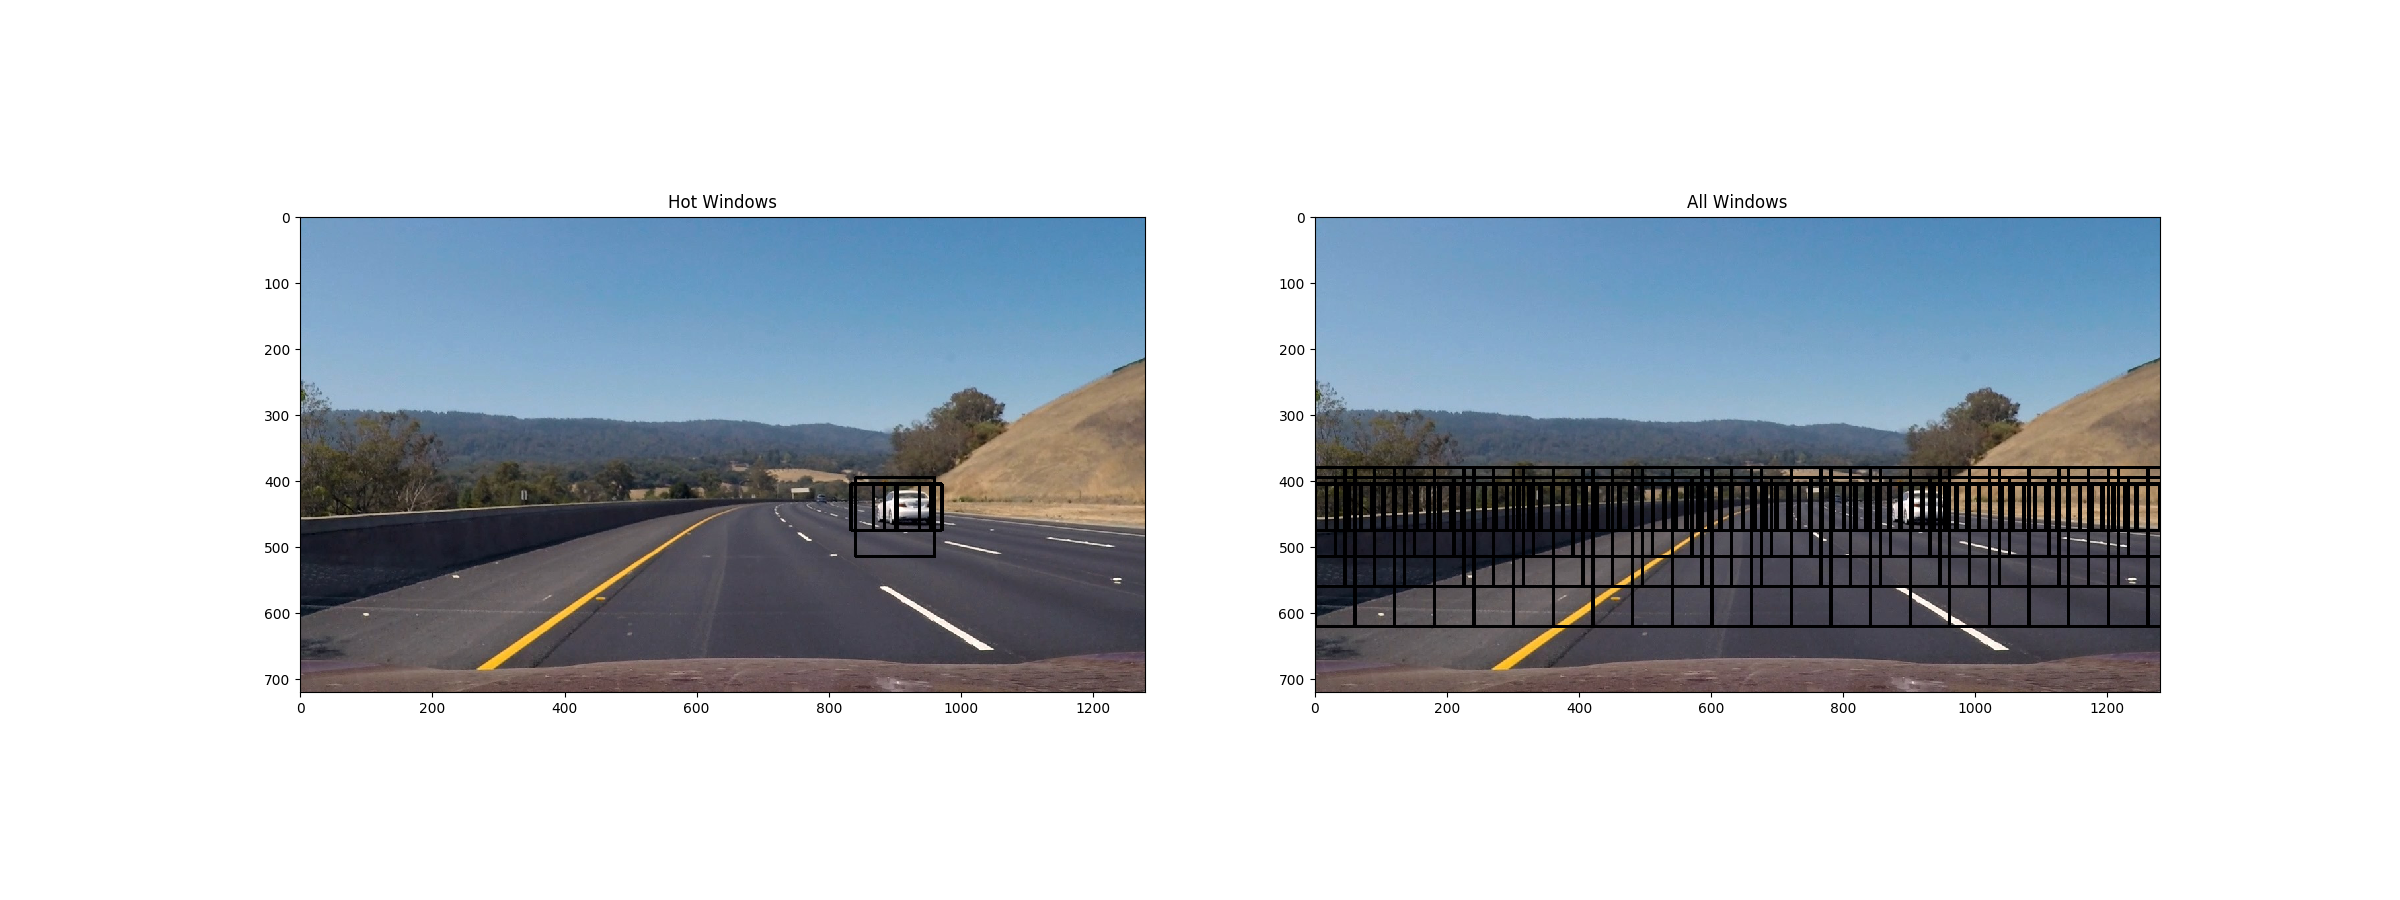
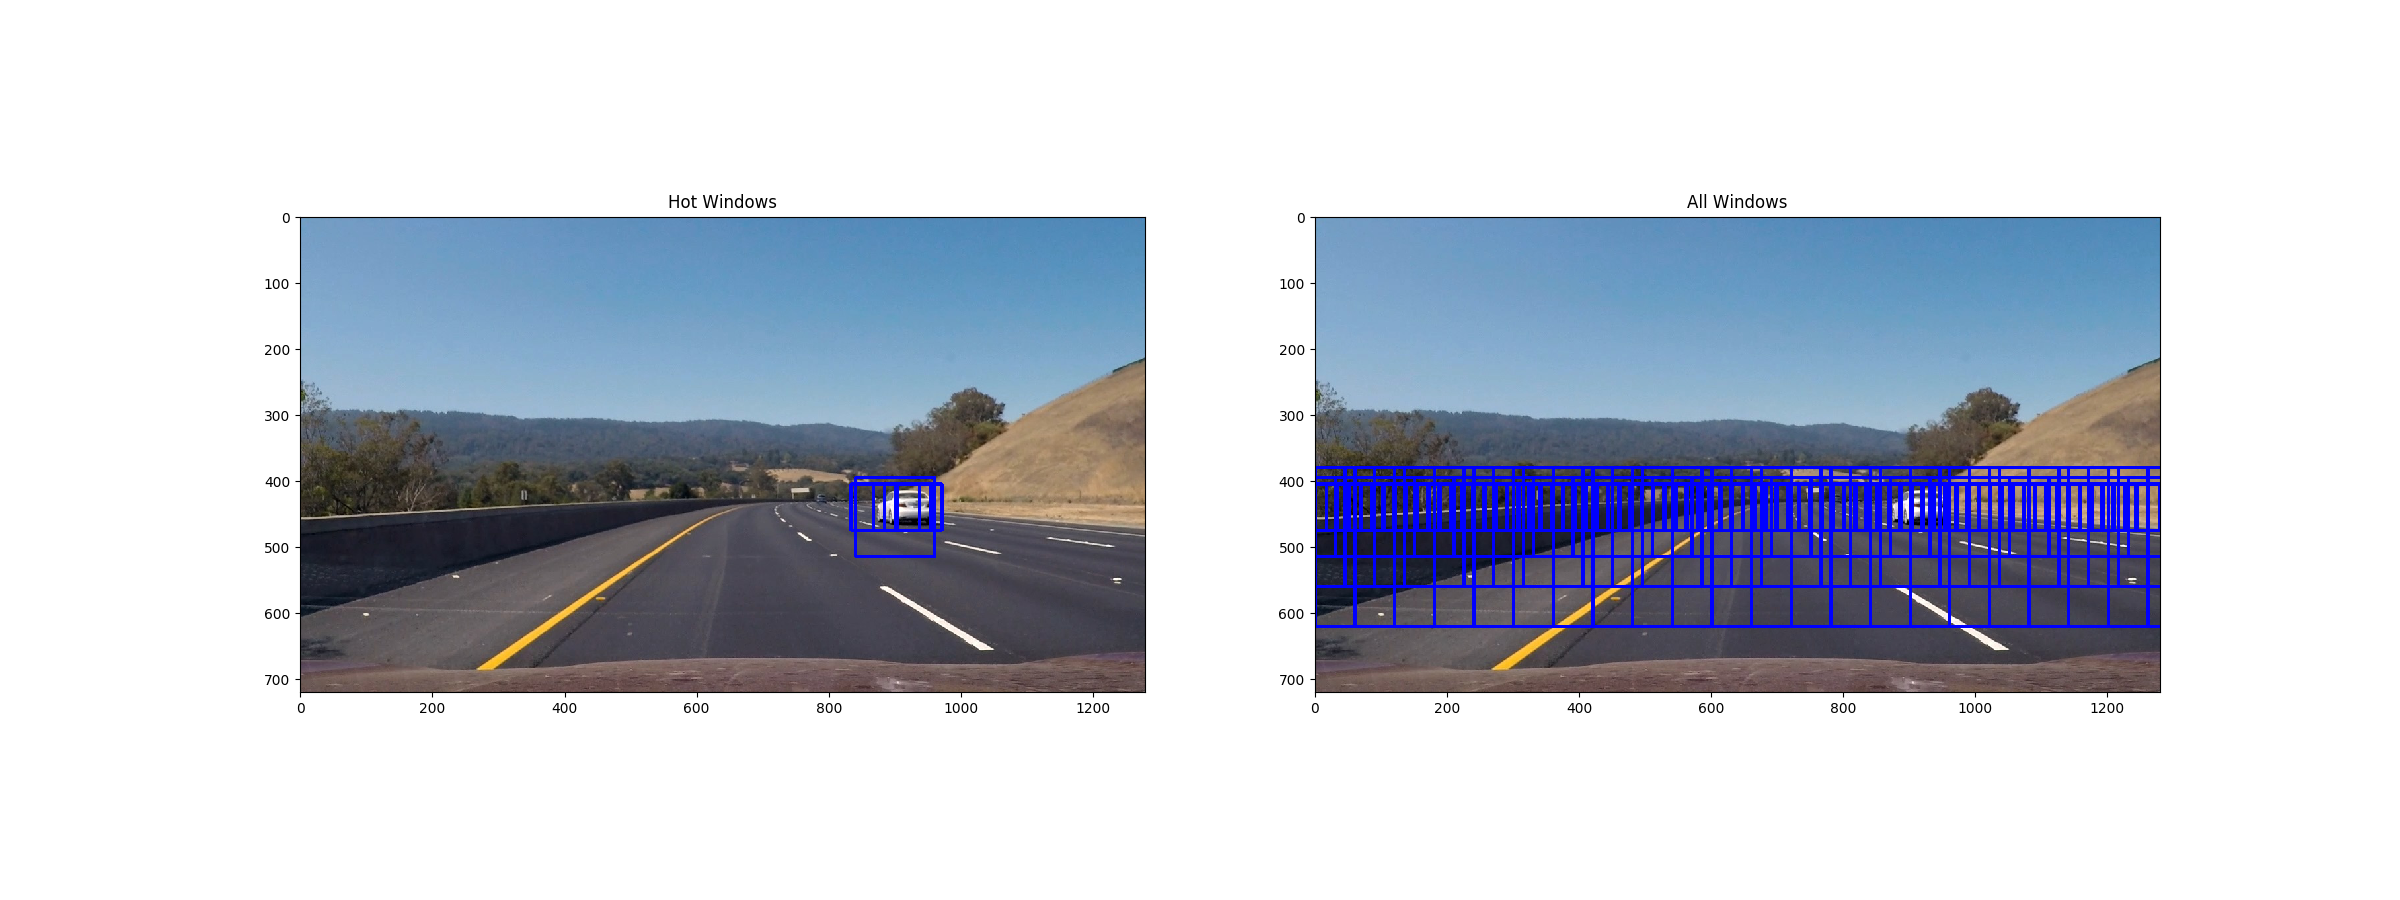
plot hot and all windows in color

Changed region(s): [[0.5312, 0.4978, 0.9062, 0.6533], [0.5625, 0.6844, 0.9062, 0.7156], [0.3438, 0.5289, 0.4062, 0.5911]]

diff --git a/sliding_window.py b/sliding_window.py
@@ -245,14 +245,13 @@ def img_process_pipeline(filename, color_space, svc, scaler, orient, hist_bins, 
     print('Searched all windows in %s seconds' % (t1 - t0))
 
     # Draw boxes on hot areas
-    img_hot_windows = draw_boxes(img, hot_windows, (0, 0, 255), 4)
+    img_hot_windows = draw_boxes(img, hot_windows, (0, 0, 1), 4)
 
     # Draw all identified windows on a separate image
     img_all_windows = np.copy(img)
     for i, window in enumerate(all_windows):
         window = [window]
-
-        img_all_windows = draw_boxes(img_all_windows, window, (0, 0, 255), 4)
+        img_all_windows = draw_boxes(img_all_windows, window, (0, 0, 1), 4)
 
     # Plot and save the output
     if saveFig:
